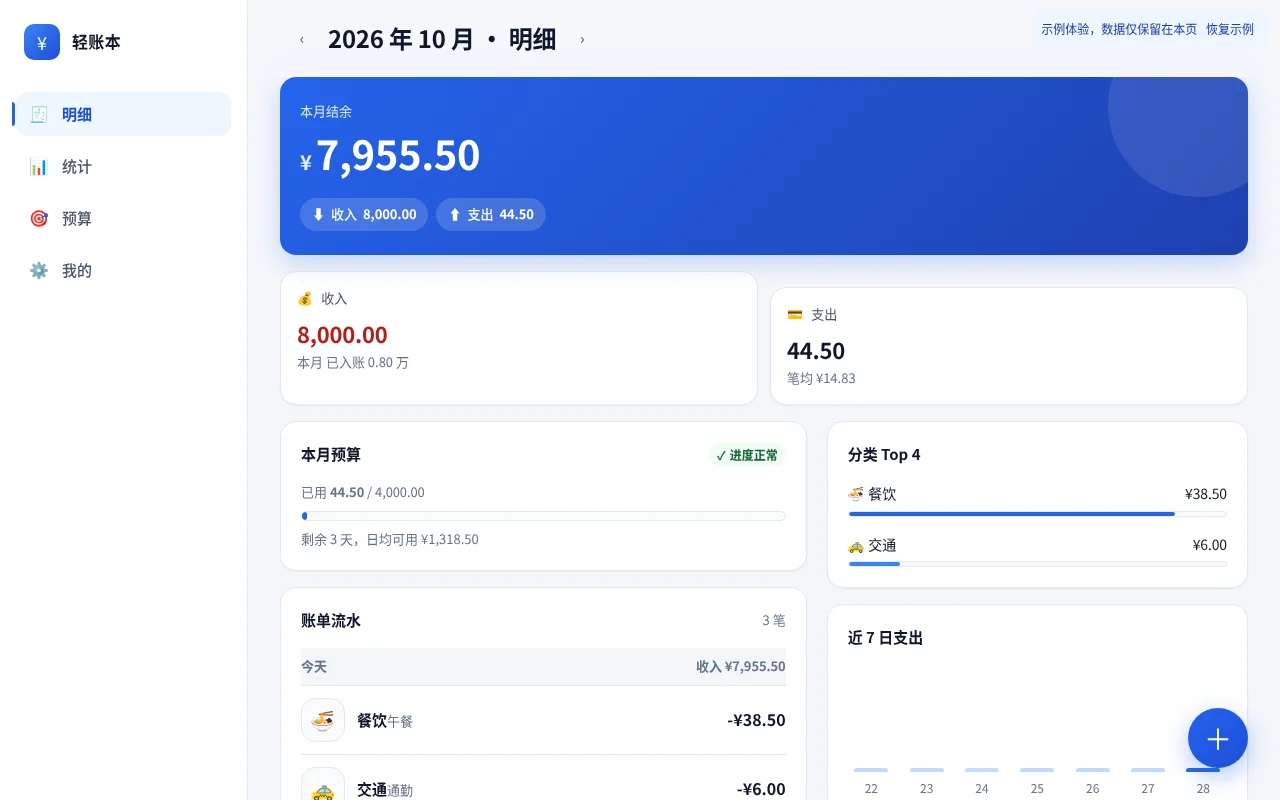
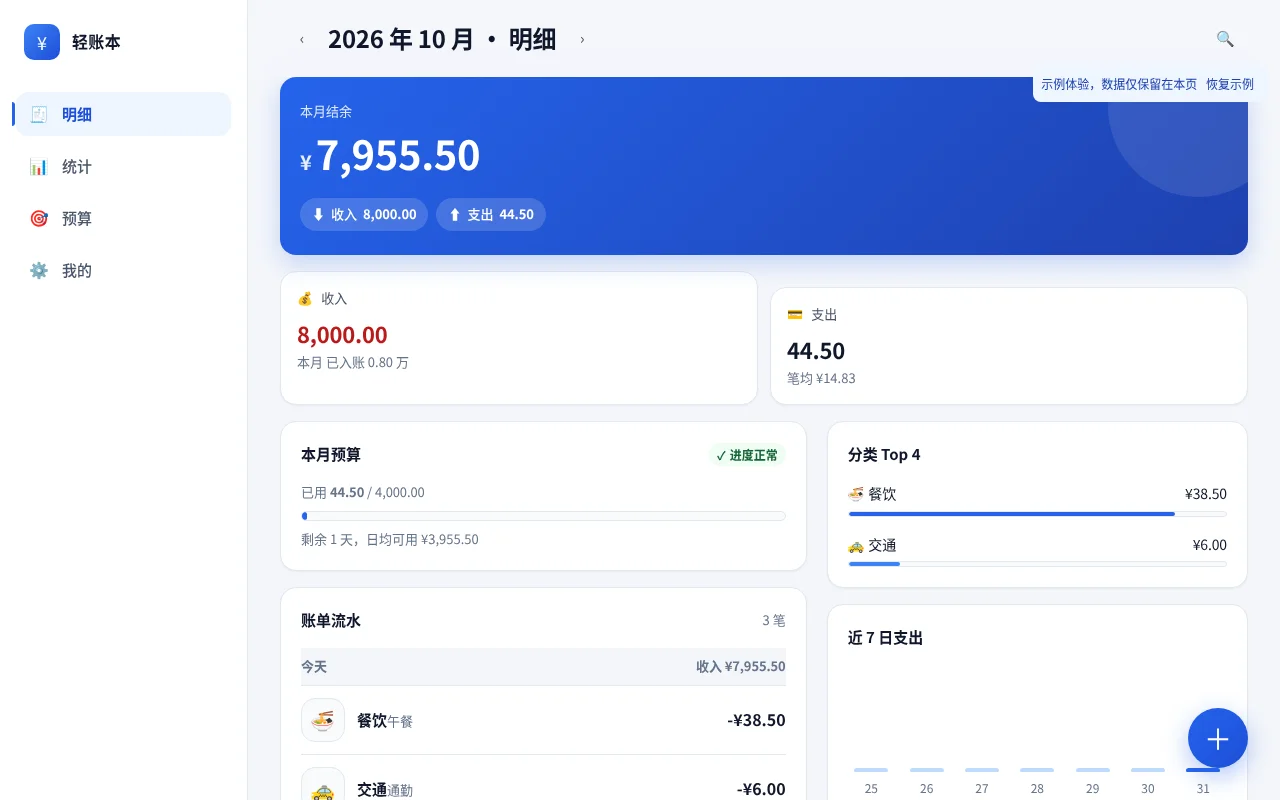
Fix ledger preview reset

Changed region(s): [[0.7812, 0.0938, 1.0, 0.1562], [0.8125, 0.0312, 0.9688, 0.0625]]

diff --git a/a1c9a43d68f004452f246a5a/showcase/preview.html b/a1c9a43d68f004452f246a5a/showcase/preview.html
@@ -976,7 +976,7 @@ function exportCSV(){ toast("安装后可导出 CSV"); return;
   var blob=new Blob(['\ufeff'+rows.map(function(row){return row.map(csv).join(',')}).join('\r\n')],{type:'text/csv;charset=utf-8'}),url=URL.createObjectURL(blob),a=document.createElement('a');a.href=url;a.download='账单.csv';a.click();setTimeout(function(){URL.revokeObjectURL(url)},1000);
 }
 exportRow.addEventListener('click',exportCSV); exportRow.addEventListener('keydown',function(e){if(e.key==='Enter'||e.key===' '){e.preventDefault();exportCSV();}});
-var notice=document.createElement('div'); notice.style.cssText='position:fixed;right:12px;top:10px;z-index:80;background:#eff6ff;color:#1e40af;padding:8px;border-radius:8px;font-size:12px'; notice.innerHTML='示例体验，数据仅保留在本页 <button type="button" id="resetDemo">恢复示例</button>';document.body.appendChild(notice);document.getElementById('resetDemo').onclick=function(){allRecords=demo.map(function(r){return Object.assign({},r)});budgetTotal=400000;document.getElementById('budgetInput').value=4000;viewDate=new Date(now.getFullYear(),now.getMonth(),1);renderAll();go('records');};
+var notice=document.createElement('div'); notice.style.cssText='position:fixed;right:12px;top:65px;z-index:999;background:#eff6ff;color:#1e40af;padding:8px;border-radius:8px;font-size:12px'; notice.innerHTML='示例体验，数据仅保留在本页 <button type="button" id="resetDemo">恢复示例</button>';document.body.appendChild(notice);document.getElementById('resetDemo').onclick=function(){allRecords=demo.map(function(r){return Object.assign({},r)});budgetTotal=400000;document.getElementById('budgetInput').value=4000;viewDate=new Date(now.getFullYear(),now.getMonth(),1);search.value='';search.hidden=true;document.getElementById('amount').value='';document.getElementById('note').value='';document.getElementById('amount').removeAttribute('aria-invalid');document.getElementById('amountErr').classList.remove('is-show');currentType='expense';currentCat='food';document.querySelectorAll('.seg__item').forEach(function(b){b.setAttribute('aria-pressed',String(b.dataset.type==='expense'));});renderCats();closeSheet();renderAll();go('records');};
 /* ---------- 启动 ---------- */
 document.getElementById('budgetInput').value = budgetTotal / 100;
 renderCats();
